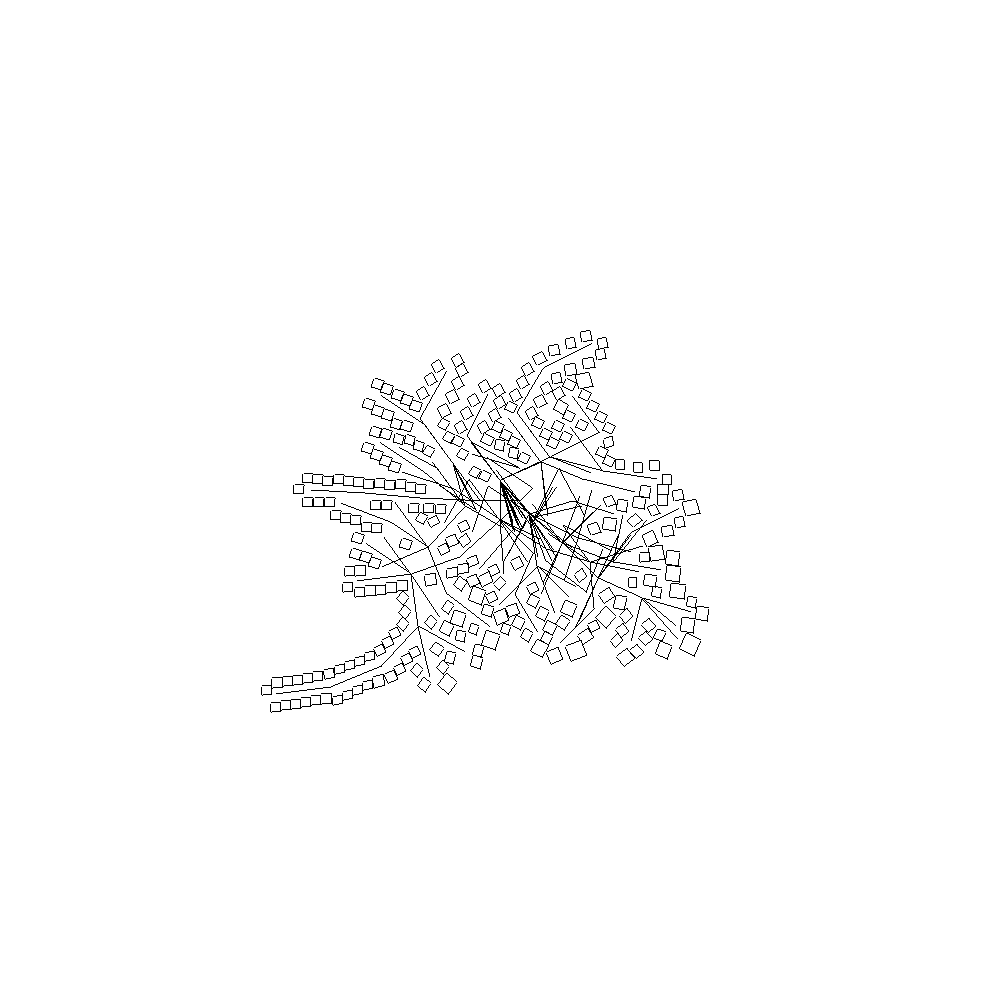
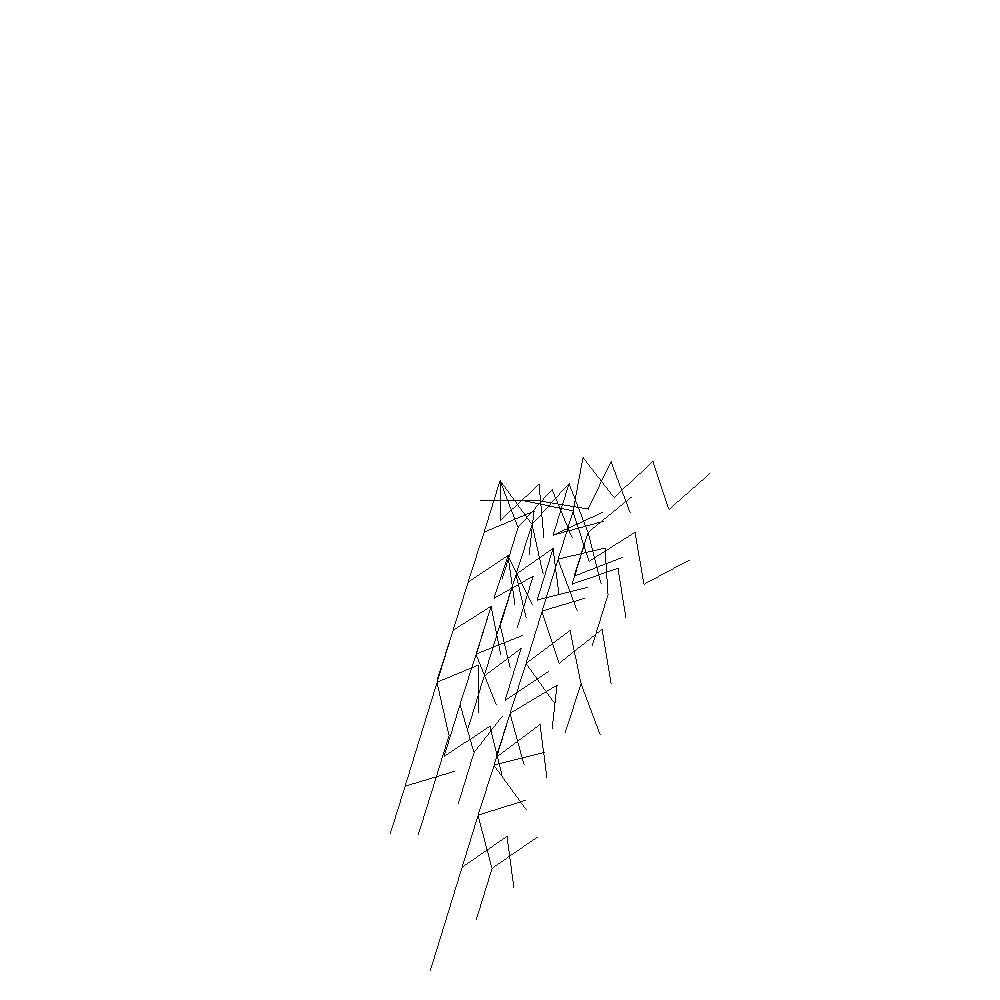
suffering

diff --git a/src/generators/city.rs b/src/generators/city.rs
@@ -2,6 +2,7 @@ use core::f32;
 use std::{
     collections::{HashMap, HashSet, VecDeque},
     f32::consts::PI,
+    process::id,
 };
 
 use rand::{random, random_bool, rng, seq::SliceRandom};
@@ -81,10 +82,19 @@ pub fn grow_city(
 
 pub fn set_up_roads(city: &mut City) -> Vec<(Point, f32)> {
     fn cost(city: &City) -> i64 {
-        let c = 10; 
+        let c = 10;
         let mut point_count = 0;
         let mut average_distance = 0;
         let mut degeneracy = 0;
+        let mut center = Vector2::zero();
+        let mut pc = 0;
+        for i in &city.roads {
+            for j in &i.points {
+                center += j.as_vec2();
+                pc += 1;
+            }
+        }
+        center /= (pc as f32);
         let neighbors_set: HashMap<(usize, usize), Vec<((usize, usize), i32)>> = city
             .roads
             .iter()
@@ -122,8 +132,10 @@ pub fn set_up_roads(city: &mut City) -> Vec<(Point, f32)> {
             })
             .collect();
         let mut euc_dist = 0;
+        let mut centroid_dist = 0;
         for (idx, i) in city.roads.iter().enumerate() {
             for (idx2, _j) in i.points.iter().enumerate() {
+                centroid_dist += (_j.as_vec2().distance_to(center) as i64);
                 point_count += 1;
                 let distances = super::utils::distance_table(
                     &(idx, idx2),
@@ -139,42 +151,46 @@ pub fn set_up_roads(city: &mut City) -> Vec<(Point, f32)> {
                 let mut dist = 0;
                 for (idx, i) in city.roads.iter().enumerate() {
                     for k in 0..i.points.len() {
-                        let dstar = 10000 as i64;
-                        if k<i.points.len()-1{
+                        let dstar = 1000 as i64;
+                        if k < i.points.len() - 1 {
                             let x0 = i.points[k];
-                            let x1 = i.points[k+1];
-                            let d = distance_to_line_segmment(*_j,x0,x1);
-                            if d<20 && d != 0{
-                                euc_dist -= 100; 
-                            }else{
-                                euc_dist += d.isqrt() as i64;
+                            let x1 = i.points[k + 1];
+                            let d = distance_to_line_segmment(*_j, x0, x1);
+                            if d < 20 {
+                                euc_dist -= 1000;
+                            } else {
+                                euc_dist += (d + 10).isqrt() as i64;
                             }
-
-                        } if let Some(x) = distances.get(&(idx, k)) {
+                        }
+                        if let Some(x) = distances.get(&(idx, k)) {
+                            let d = i.points[k].as_vec2().distance_to(_j.as_vec2()) as i32;
+                            if d < 20 {
+                                euc_dist -= 1000;
+                            }
                             if (*x as i64) < dstar {
                                 dist += *x as i64;
                             } else {
-                                dist += dstar * dstar;
+                                dist += dstar;
                             }
                         } else {
-                            dist += dstar * dstar;
+                            dist += dstar;
                         }
                     }
                 }
-                average_distance += dist.isqrt();
+                average_distance += dist;
             }
         }
-        average_distance /= point_count as i64 * point_count as i64;
-        degeneracy /= (point_count*point_count);
+        average_distance /= point_count as i64;
+        degeneracy /= point_count;
         //euc_dist/=point_count;
-        let cost = euc_dist/1000;
-        cost-average_distance - degeneracy
+        let cost = (euc_dist + centroid_dist) / (point_count);
+        cost - average_distance - degeneracy
     }
 
     fn try_update_city_extend(
         city: &City,
         try_road_idx: usize,
-        try_point_idx: usize, 
+        try_point_idx: usize,
     ) -> (City, i64) {
         let mut max_point = city.roads[try_road_idx].points[try_point_idx];
         let base = max_point;
@@ -182,7 +198,7 @@ pub fn set_up_roads(city: &mut City) -> Vec<(Point, f32)> {
         let base_angle = if try_point_idx == 0 {
             let p1 = city.roads[try_road_idx].points[try_point_idx + 1];
             let p0 = city.roads[try_road_idx].points[try_point_idx];
-            let theta = (p1.as_vec2() - p0.as_vec2())
+            let theta = (p0.as_vec2() - p1.as_vec2())
                 .normalized()
                 .angle_to(Vector2::new(1.0, 0.0));
             theta
@@ -207,41 +223,52 @@ pub fn set_up_roads(city: &mut City) -> Vec<(Point, f32)> {
                 .angle_to(Vector2::new(1.0, 0.0));
             (theta1 + theta2) / 2.
         };
-        for rad in 20..=25{
+        let mut angle = base_angle;
+        let mut hit = false;
+        for rad in 20..=25 {
             for theta in 0..4 {
                 let rad = rad * 2 + 5;
                 let mut theta =
                     (theta) as f32 * PI / 2. + base_angle + (random::<u64>() % 10 - 5) as f32 / 60.;
-                if try_point_idx == city.roads.len() - 1 {
-                    theta = base_angle + (random::<u64>() % 100 - 50) as f32 / 240.;
+                if try_point_idx == city.roads[try_road_idx].points.len() - 1 {
+                    theta = base_angle + (random::<u64>() % 100 - 50) as f32 / 120.;
                 } else if try_point_idx == 0 {
-                    theta = -base_angle + (random::<u64>() % 100 - 50) as f32 / 240.;
+                    theta = base_angle + (random::<u64>() % 100 - 50) as f32 / 120.;
                 };
                 let theta = theta;
                 let p0 = base.as_vec2()
                     + Vector2::new((theta as f32).cos(), (theta as f32).sin()) * (rad as f32);
                 let mut min = 50000.0;
                 for (idx, j) in city.roads.iter().enumerate() {
-                    if idx == try_road_idx {
-                        continue;
-                    }
-                    for k in &j.points {
-                        let d2 = k.as_vec2().distance_to(p0);
+                    for idx2 in 0..j.points.len() - 1 {
+                        if idx2 == try_point_idx && idx == try_road_idx
+                            || idx2 + 1 == try_point_idx && idx == try_road_idx
+                        {
+                            continue;
+                        }
+                        let d2 = distance_to_line_segmment(
+                            Point::from_vec2(p0),
+                            j.points[idx2],
+                            j.points[idx2 + 1],
+                        ) as f32;
                         if d2 < min {
                             min = d2;
                         }
                     }
                 }
-                if (min as i32) > max_dist {
+                if (min as i32 + (random::<u64>() % 10) as i32 - 5) > max_dist && min > 5. {
                     max_dist = min as i32;
+                    hit = true;
                     max_point = Point::from_vec2(p0);
+                    angle = theta;
                 }
             }
         }
+        if !hit {
+            return (city.clone(), cost(&city));
+        }
         let mut city_2 = city.clone();
-        if base_angle.abs() > std::f32::consts::PI / 6.
-            || city_2.roads[try_road_idx].points.len() >16
-        {
+        if (angle - base_angle).abs() > PI / 2. {
             city_2.roads.push(Road {
                 points: vec![base, max_point],
             })
@@ -255,7 +282,8 @@ pub fn set_up_roads(city: &mut City) -> Vec<(Point, f32)> {
                     points: vec![base, max_point],
                 })
             }
-        } 
+        }
+
         let cost = cost(&city_2);
         (city_2, cost)
     }
@@ -270,31 +298,30 @@ pub fn set_up_roads(city: &mut City) -> Vec<(Point, f32)> {
     ];
     let mut last_cost = -1000;
     let mut failed_count = 0;
-    let mut dead_set:HashSet<(usize, usize)> = HashSet::new(); 
-    for i in 0..150 { 
+    let mut dead_set: HashSet<(usize, usize)> = HashSet::new();
+    for i in 0..500 {
         let mut set = Vec::new();
         for (idx, i) in c2.roads.iter().enumerate() {
             for j in 0..i.points.len() {
                 if dead_set.contains(&(idx, j)) {
                     continue;
                 }
-                if j == 0 || j == i.points.len() - 1 || random_bool(0.01) {
+                if j == 0 || j == i.points.len() - 1 || random_bool(0.0) {
                     set.push((idx, j));
                 }
             }
         }
-        set.shuffle(&mut rng()); 
-        let mut cost_set = set.par_iter().take(10).map(|x|{
-            let (idx, j) = *x;
-            let c3 = try_update_city_extend(&c2, idx,j);
-            (c3, *x)
-        }).collect::<Vec<_>>();
+        set.shuffle(&mut rng());
+        let mut cost_set = set
+            .par_iter()
+            .map(|x| {
+                let (idx, j) = *x;
+                let c3 = try_update_city_extend(&c2, idx, j);
+                (c3, *x)
+            })
+            .collect::<Vec<_>>();
         for (idx, i) in c2.roads.iter().enumerate() {
-         
             'lp: for (idx2, k) in c2.roads.iter().enumerate() {
-                if random_bool(0.8) {
-                    continue;
-                }
                 if dead_set.contains(&(idx, idx2)) {
                     continue;
                 }
@@ -330,7 +357,7 @@ pub fn set_up_roads(city: &mut City) -> Vec<(Point, f32)> {
                 }
                 let count = (i.points.len() + k.points.len()) as i64;
                 avg_dist /= count;
-                if avg_dist.isqrt() < 250 && avg_dist.isqrt() > 0 {
+                if avg_dist.isqrt() < 500 && avg_dist.isqrt() > 0 {
                     let r = Road {
                         points: vec![
                             nearest_pair.0,
@@ -341,10 +368,9 @@ pub fn set_up_roads(city: &mut City) -> Vec<(Point, f32)> {
                         ],
                     };
                     let mut tc = c2.clone();
-                    tc.roads.push(r); 
+                    tc.roads.push(r);
                     let cost = cost(&tc);
                     cost_set.push(((tc, cost), (idx, idx2)));
-                    continue 'lp;
                 }
             }
         }
@@ -359,24 +385,24 @@ pub fn set_up_roads(city: &mut City) -> Vec<(Point, f32)> {
         }
         let tmp = cost_set.remove(max_idx);
         let tcost = tmp.0.1;
-     /* if tcost < bcost {
+        /* if tcost < bcost {
             failed_count += 1;
             if failed_count > 16 {
                 break;
             }
             continue;
         }*/
-        failed_count = 0; 
+        failed_count = 0;
         last_cost = tcost;
-        c2 = tmp.0.0; 
+        c2 = tmp.0.0;
         //dead_set.insert(tmp.1);
         println!("max_index:{}, idx:{}, cost:{}", max_idx, i, tmp.0.1);
-        if i % 3== 0 {
+        if i % 3 == 0 {
             c2.draw();
         }
     }
     *city = c2;
-    let  idxs = (0..city.roads.len()).collect::<Vec<usize>>(); 
+    let idxs = (0..city.roads.len()).collect::<Vec<usize>>();
     generate_point_set(city, 1)
 }
 
